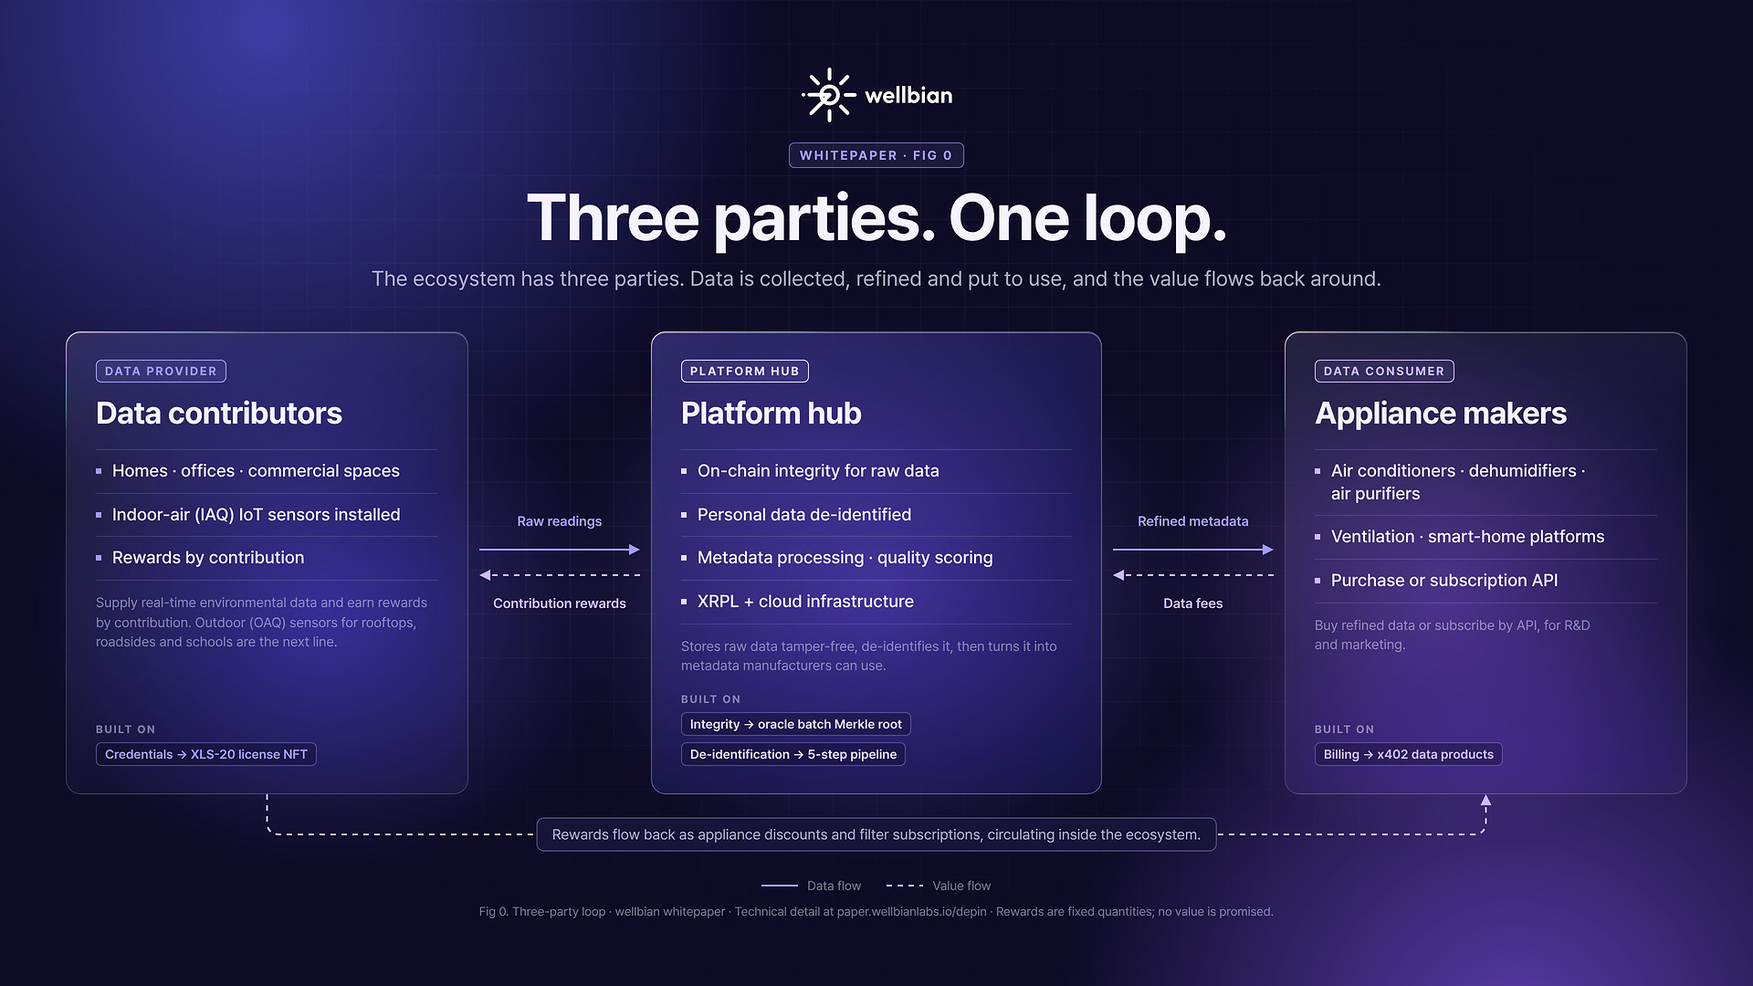
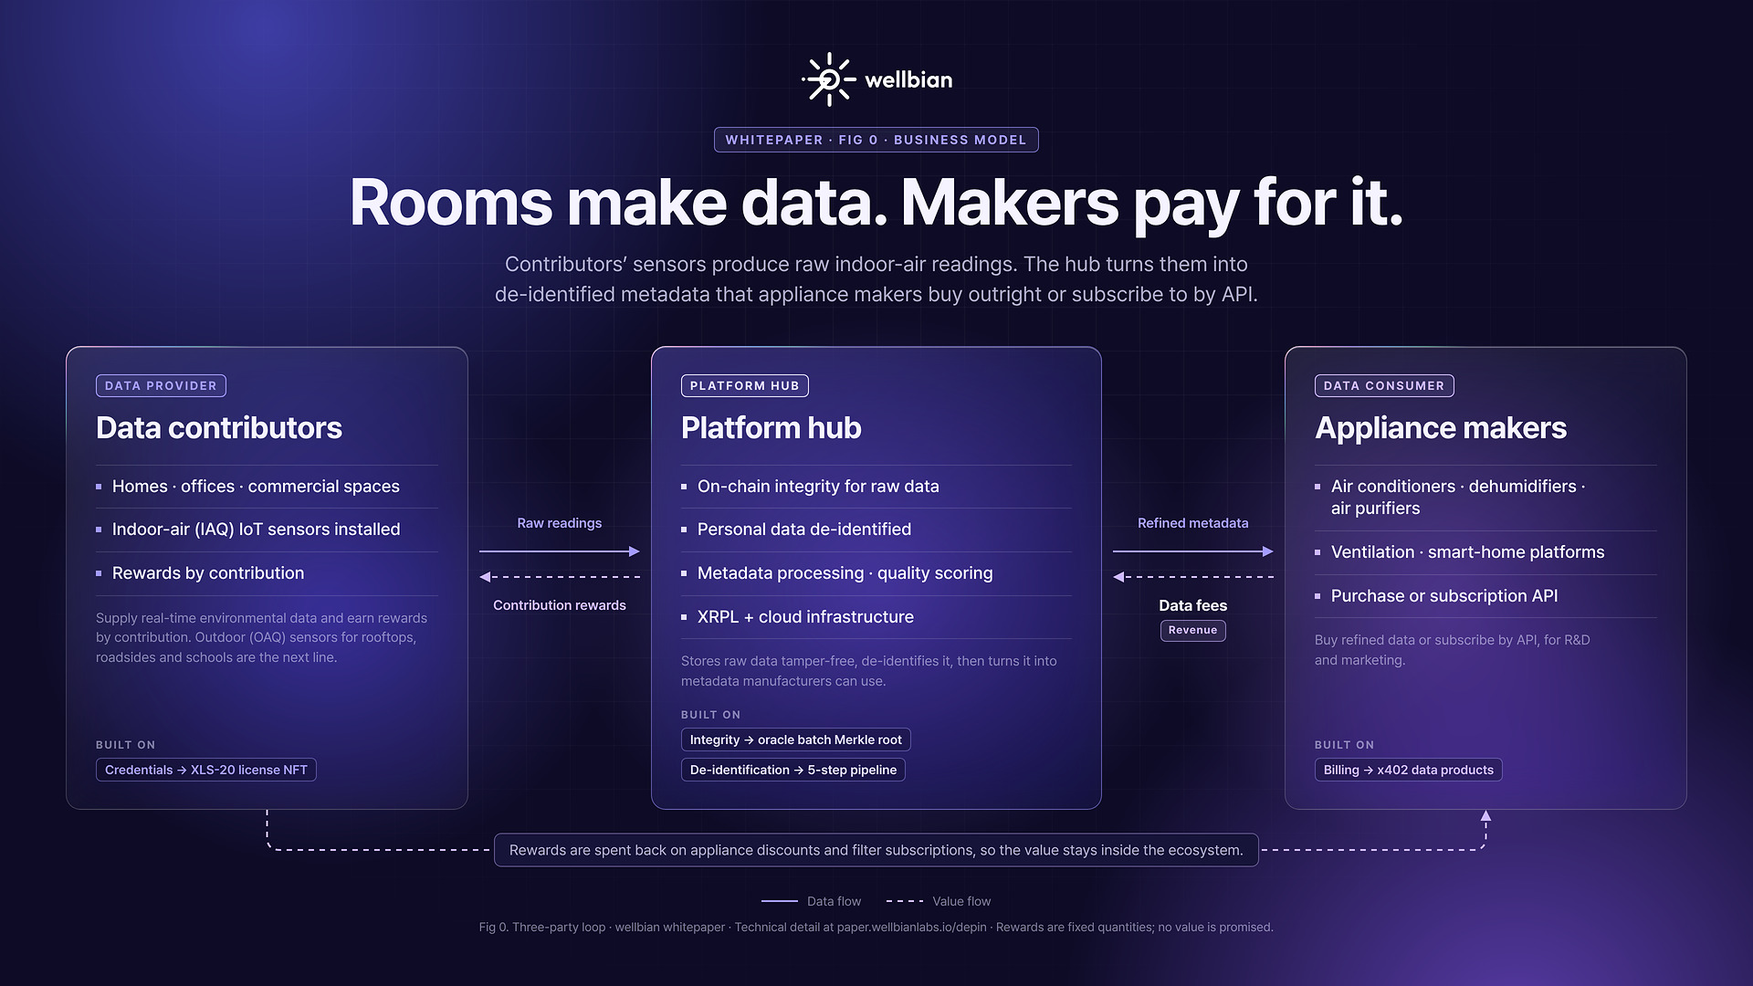
depin: Fig 0 English graphic — revenue-focused headline and data-fee emphasis
Claude-Session: https://claude.ai/code/session_014drgzQYBXTLjd1zzmsjRaS

diff --git a/depin/content/ecosystem-1021/ecosystem-en.html b/depin/content/ecosystem-1021/ecosystem-en.html
@@ -1,4 +1,4 @@
-<!doctype html><html lang="en"><head><meta charset="utf-8"><title>wellbian — Three parties. One loop.</title><style>
+<!doctype html><html lang="en"><head><meta charset="utf-8"><title>wellbian — Rooms make data. Makers pay for it.</title><style>
 @font-face{font-family:"Pretendard";src:url("../../site/event-week/www/fonts/PretendardVariable.woff2") format("woff2");font-weight:100 900}
 :root{--bg:#0D0B26;--t1:#F4F3FF;--t2:rgba(226,224,255,.74);--t3:rgba(226,224,255,.50);--p:#4D4DCE;--p1:#A39BFF;--p2:#CDB8FF;--p3:#E2DCFF;
  --edge:rgba(255,255,255,.16);--hi:rgba(255,255,255,.32)}
@@ -42,6 +42,8 @@ h1{margin-top:16px;font-size:72px;font-weight:700;letter-spacing:-.025em;line-he
 .lane svg{width:180px;height:56px;display:block;overflow:visible}
 .lbl{font-size:15px;font-weight:600;letter-spacing:-.005em;word-break:keep-all;text-align:center;line-height:1.25}
 .lbl.data{color:var(--p1)} .lbl.value{color:var(--p2)}
+.lbl.value.money{color:var(--t1);font-size:17px;font-weight:700;line-height:1.1}
+.rev{margin-top:-2px;font-size:12px;font-weight:700;letter-spacing:.06em;color:var(--p2);border:1px solid rgba(205,184,255,.55);border-radius:6px;padding:3px 8px;background:rgba(205,184,255,.12);text-align:center;line-height:1.3}
 .loop{position:relative;width:100%;height:78px}
 .loop svg{position:absolute;inset:0;width:100%;height:100%;overflow:visible}
 .loop .pill{position:absolute;left:50%;top:44px;transform:translate(-50%,-50%);white-space:nowrap;font-size:16px;color:var(--t2);background:#17143A;border:1px solid rgba(205,184,255,.42);border-radius:8px;padding:8px 16px}
@@ -55,10 +57,10 @@ h1{margin-top:16px;font-size:72px;font-weight:700;letter-spacing:-.025em;line-he
 <div class="bgfx"><div class="g1"></div><div class="g2"></div><div class="g3"></div><div class="g4"></div><div class="g5"></div><div class="grid"></div></div>
 <div class="wrap">
 <div class="logo"><svg width="165" height="60" xmlns="http://www.w3.org/2000/svg" viewBox="0 0 416 151" fill="none" aria-label="wellbian"><g clip-path="url(#wellbian-logo-clip)"><path fill-rule="evenodd" clip-rule="evenodd" fill="#ffffff" d="M323.43 91.39C318.81 98.61 309.1 100.27 302.55 94.93L302.35 97.34L293.95 97.31V50.89L302.39 50.86L302.43 68.68C309.49 63.1 319.73 65.28 324.02 73.24C327.04 78.84 326.98 85.82 323.42 91.39H323.43ZM317.49 81.66C317.45 76.62 313.86 73.3 309.3 73.49C304.89 73.67 301.86 77.27 301.89 81.88C301.92 86.61 305.16 90.16 309.72 90.18C314.2 90.19 317.53 86.63 317.49 81.67V81.66ZM214.88 66.22H223.48L211.97 97.26L205.76 97.36L199.16 79.47L192.59 97.33L186.44 97.26L174.87 66.23L183.45 66.2L189.73 84.68L196.12 66.22L202.22 66.17L208.66 84.67L214.88 66.23V66.22ZM378.53 97.31L370.12 97.33L369.96 94.74C366.45 97.85 362.06 98.74 357.28 97.51C348.11 95.16 344.12 84.22 347.5 75.2C350.07 68.34 356.83 64.51 363.99 65.84C366.33 66.28 368.25 67.38 370.01 68.9L370.1 66.19H378.53V97.3V97.31ZM370.58 81.66C370.51 76.61 366.94 73.29 362.35 73.49C357.76 73.69 354.94 77.25 354.98 81.87C355.02 86.58 358.24 90.19 362.76 90.17C367.28 90.15 370.65 86.65 370.58 81.66ZM240.35 90.79C243.85 91.12 246.74 90.03 249.11 87.65L254.11 92.67C250.44 96.88 245.21 98.34 239.87 97.97C231.83 97.42 225.52 91.57 224.71 83.58C223.68 73.5 231.35 65.21 241.45 65.53C245.96 65.67 249.95 67.39 252.81 70.93C255.93 74.79 256.93 79.96 255.75 84.77H233.22C234.02 87.97 236.61 90.41 240.35 90.77V90.79ZM247.97 78.41C247.21 74.48 244.42 72.61 241 72.68C237.3 72.6 234.04 74.85 233.34 78.44L247.96 78.41H247.97ZM394.4 78.79L394.29 97.32H385.85V66.21L394.27 66.19L394.39 68.92C397.95 65.85 402.64 64.61 407.39 66.37C411.09 67.74 415.04 71.77 415.06 76.51L415.14 97.32H406.62L406.5 78.54C406.48 75.2 403.19 73.33 400.37 73.36C397.55 73.39 394.41 75.28 394.39 78.79H394.4ZM270.25 97.27L261.8 97.32V50.88L270.25 50.87V97.27ZM286.12 97.27L277.67 97.32V50.88L286.12 50.87V97.27ZM340.52 97.31H331.97V66.21L340.52 66.18V97.31ZM335.77 51.61C338.77 51.33 340.79 53.44 341.02 55.95C341.27 58.75 339.43 61.1 336.79 61.33C334.15 61.56 331.85 59.89 331.47 57.22C331.09 54.59 332.72 51.89 335.77 51.61ZM151.91 75.05C152.05 77.51 150.18 80.42 147.12 80.42H121.23C118.37 80.43 116.35 77.81 116.35 75.4C116.35 72.52 118.49 70.19 121.55 70.19L147.02 70.21C149.83 70.21 151.77 72.57 151.91 75.04M78.11 150.79H75.98C75.74 150.79 75.49 150.74 75.27 150.63C73.01 149.53 71.94 147.62 71.95 144.93L71.99 119.92C71.99 116.96 74.43 114.93 77.08 114.94C79.73 114.95 82.11 117.04 82.12 119.98L82.16 144.92C82.16 147.6 81.13 149.52 78.84 150.63C78.62 150.74 78.37 150.79 78.13 150.79H78.11ZM130.2 121.65C132.32 123.79 132.2 127.11 130.14 129.06C128.03 131.06 124.91 130.82 122.76 128.65L105.14 110.83C103.09 108.76 103.12 105.66 105.05 103.63C106.98 101.6 110.19 101.52 112.31 103.65L130.2 121.64V121.65ZM-9.76585e-06 75.58V73.86C-9.76585e-06 73.63 0.0399902 73.4 0.12999 73.19C1.12999 70.97 3.18999 69.5 5.60999 69.83C8.02999 70.16 10.03 72.42 9.91999 74.95C9.80999 77.48 7.83999 79.61 5.23999 79.76C2.94999 79.89 1.06999 78.44 0.11999 76.22C0.0299902 76.02 -0.0100098 75.79 -0.0100098 75.58H-9.76585e-06ZM52.97 90.7C51.07 87.56 49.87 84.48 49.15 81.06C48.99 80.31 48.35 79.76 47.58 79.76H21.31C18.42 79.76 16.29 77.56 16.19 74.97C16.08 72.18 18.28 69.8 21.31 69.8H47.88C48.62 69.79 49.25 69.27 49.43 68.55C53.4 52.66 69.57 43.24 85.29 47.94C94.48 50.69 101.45 58.07 104.12 66.39C107.39 76.58 105.06 86.87 98.34 94.5C89.03 105.08 73.73 107.18 61.91 99.72C61.27 99.31 60.43 99.39 59.9 99.93L30.57 129.52C28.52 131.59 25.62 131.7 23.52 129.94C21.62 128.35 20.8 124.85 22.93 122.7L52.74 92.68C53.26 92.15 53.34 91.34 52.96 90.71L52.97 90.7ZM80.79 78.93L69.87 89.9C69.07 90.71 69.33 92.1 70.39 92.52C76.53 94.96 83.35 93.88 88.39 89.84C94.03 85.32 96.63 77.87 94.7 70.68C92.54 62.67 85.48 57.21 77.46 57.05C70.29 56.91 63.71 61.01 60.61 67.52C60.12 68.56 60.92 69.76 62.07 69.76L77.66 69.82C79.76 69.82 81.46 71.82 81.95 73.25C82.63 75.22 82.33 77.36 80.78 78.93H80.79ZM61.66 79.79C60.53 79.77 59.73 80.9 60.14 81.96C60.56 83.04 61.96 83.33 62.77 82.51C63.75 81.51 63.06 79.82 61.66 79.79ZM78.15 0C78.4 0 78.65 0.05 78.87 0.16C81.11 1.27 82.14 3.2 82.14 5.87L82.1 30.81C82.1 33.75 79.72 35.84 77.06 35.85C74.4 35.86 71.98 33.83 71.97 30.87L71.93 5.86C71.93 3.16 73 1.25 75.37 0.15C75.58 0.05 75.83 0 76.06 0H78.14L78.15 0ZM112.39 46.97C110.21 49.17 107.12 49.03 105.11 47.13C103.36 45.48 102.84 42.1 104.86 40.07L122.89 21.84C124.89 19.82 127.79 19.77 129.78 21.35C131.84 22.97 132.6 26.53 130.51 28.64L112.38 46.97H112.39ZM49.43 40.36C51.26 42.21 50.67 45.34 49.2 46.95C47.55 48.76 44.23 49.43 42.3 47.5L23.59 28.67C21.68 26.75 22.19 23.58 23.76 21.9C25.45 20.09 28.75 19.48 30.74 21.5L49.42 40.37L49.43 40.36Z"></path></g><defs><clipPath id="wellbian-logo-clip"><rect width="415.14" height="150.79" fill="white"></rect></clipPath></defs></svg></div>
-<div class="kicker">Whitepaper · Fig 0</div>
-<h1>Three parties. One loop.</h1><p class="sub">The ecosystem has three parties. Data is collected, refined and put to use, and the value flows back around.</p>
-<div class="row"><section class="tile glass glint provider"><div class="eyebrow">Data Provider</div><h2>Data contributors</h2><ul class="items"><li><span class="nw">Homes ·</span> <span class="nw">offices ·</span> <span class="nw">commercial spaces</span></li><li>Indoor-air (IAQ) IoT sensors installed</li><li>Rewards by contribution</li></ul><p class="n">Supply real-time environmental data and earn rewards by contribution. Outdoor (OAQ) sensors for rooftops, roadsides and schools are the next line.</p><div class="tech"><span class="tl">Built on</span><span class="tag">Credentials → XLS-20 license NFT</span></div></section><div class="lane"><span class="lbl data">Raw readings</span><svg viewBox="0 0 180 56"><line x1="2" y1="14" x2="168" y2="14" stroke="#A39BFF" stroke-width="2"/><polygon points="178,14 166,8 166,20" fill="#A39BFF"/><line x1="178" y1="42" x2="12" y2="42" stroke="#CDB8FF" stroke-width="2" stroke-dasharray="6 6"/><polygon points="2,42 14,36 14,48" fill="#CDB8FF"/></svg><span class="lbl value">Contribution rewards</span></div><section class="tile glass glint hub"><div class="eyebrow">Platform Hub</div><h2>Platform hub</h2><ul class="items"><li>On-chain integrity for raw data</li><li>Personal data de-identified</li><li><span class="nw">Metadata processing ·</span> <span class="nw">quality scoring</span></li><li>XRPL + cloud infrastructure</li></ul><p class="n">Stores raw data tamper-free, de-identifies it, then turns it into metadata manufacturers can use.</p><div class="tech"><span class="tl">Built on</span><span class="tag">Integrity → oracle batch Merkle root</span><span class="tag">De-identification → 5-step pipeline</span></div></section><div class="lane"><span class="lbl data">Refined metadata</span><svg viewBox="0 0 180 56"><line x1="2" y1="14" x2="168" y2="14" stroke="#A39BFF" stroke-width="2"/><polygon points="178,14 166,8 166,20" fill="#A39BFF"/><line x1="178" y1="42" x2="12" y2="42" stroke="#CDB8FF" stroke-width="2" stroke-dasharray="6 6"/><polygon points="2,42 14,36 14,48" fill="#CDB8FF"/></svg><span class="lbl value">Data fees</span></div><section class="tile glass glint consumer"><div class="eyebrow">Data Consumer</div><h2>Appliance makers</h2><ul class="items"><li><span class="nw">Air conditioners ·</span> <span class="nw">dehumidifiers ·</span> <span class="nw">air purifiers</span></li><li><span class="nw">Ventilation ·</span> <span class="nw">smart-home platforms</span></li><li>Purchase or subscription API</li></ul><p class="n">Buy refined data or subscribe by API, for R&D and marketing.</p><div class="tech"><span class="tl">Built on</span><span class="tag">Billing → x402 data products</span></div></section></div>
-<div class="loop"><svg viewBox="0 0 1776 78" preserveAspectRatio="none"><path d="M220.5,0 V30 Q220.5,44 234.5,44 H1541.5 Q1555.5,44 1555.5,30 V10" fill="none" stroke="#CDB8FF" stroke-width="2" stroke-dasharray="6 6"/><polygon points="1555.5,0 1549.5,12 1561.5,12" fill="#CDB8FF"/></svg><div class="pill">Rewards flow back as appliance discounts and filter subscriptions, circulating inside the ecosystem.</div></div>
+<div class="kicker">Whitepaper · Fig 0 · Business model</div>
+<h1>Rooms make data. Makers pay for it.</h1><p class="sub">Contributors’ sensors produce raw indoor-air readings. The hub turns them into de‑identified metadata that appliance makers buy outright or subscribe to by API.</p>
+<div class="row"><section class="tile glass glint provider"><div class="eyebrow">Data Provider</div><h2>Data contributors</h2><ul class="items"><li><span class="nw">Homes ·</span> <span class="nw">offices ·</span> <span class="nw">commercial spaces</span></li><li>Indoor-air (IAQ) IoT sensors installed</li><li>Rewards by contribution</li></ul><p class="n">Supply real-time environmental data and earn rewards by contribution. Outdoor (OAQ) sensors for rooftops, roadsides and schools are the next line.</p><div class="tech"><span class="tl">Built on</span><span class="tag">Credentials → XLS-20 license NFT</span></div></section><div class="lane"><span class="lbl data">Raw readings</span><svg viewBox="0 0 180 56"><line x1="2" y1="14" x2="168" y2="14" stroke="#A39BFF" stroke-width="2"/><polygon points="178,14 166,8 166,20" fill="#A39BFF"/><line x1="178" y1="42" x2="12" y2="42" stroke="#CDB8FF" stroke-width="2" stroke-dasharray="6 6"/><polygon points="2,42 14,36 14,48" fill="#CDB8FF"/></svg><span class="lbl value">Contribution rewards</span><span class="rev" style="visibility:hidden">·</span></div><section class="tile glass glint hub"><div class="eyebrow">Platform Hub</div><h2>Platform hub</h2><ul class="items"><li>On-chain integrity for raw data</li><li>Personal data de-identified</li><li><span class="nw">Metadata processing ·</span> <span class="nw">quality scoring</span></li><li>XRPL + cloud infrastructure</li></ul><p class="n">Stores raw data tamper-free, de-identifies it, then turns it into metadata manufacturers can use.</p><div class="tech"><span class="tl">Built on</span><span class="tag">Integrity → oracle batch Merkle root</span><span class="tag">De-identification → 5-step pipeline</span></div></section><div class="lane"><span class="lbl data">Refined metadata</span><svg viewBox="0 0 180 56"><line x1="2" y1="14" x2="168" y2="14" stroke="#A39BFF" stroke-width="2"/><polygon points="178,14 166,8 166,20" fill="#A39BFF"/><line x1="178" y1="42" x2="12" y2="42" stroke="#CDB8FF" stroke-width="2" stroke-dasharray="6 6"/><polygon points="2,42 14,36 14,48" fill="#CDB8FF"/></svg><span class="lbl value money">Data fees</span><span class="rev">Revenue</span></div><section class="tile glass glint consumer"><div class="eyebrow">Data Consumer</div><h2>Appliance makers</h2><ul class="items"><li><span class="nw">Air conditioners ·</span> <span class="nw">dehumidifiers ·</span> <span class="nw">air purifiers</span></li><li><span class="nw">Ventilation ·</span> <span class="nw">smart-home platforms</span></li><li>Purchase or subscription API</li></ul><p class="n">Buy refined data or subscribe by API, for R&D and marketing.</p><div class="tech"><span class="tl">Built on</span><span class="tag">Billing → x402 data products</span></div></section></div>
+<div class="loop"><svg viewBox="0 0 1776 78" preserveAspectRatio="none"><path d="M220.5,0 V30 Q220.5,44 234.5,44 H1541.5 Q1555.5,44 1555.5,30 V10" fill="none" stroke="#CDB8FF" stroke-width="2" stroke-dasharray="6 6"/><polygon points="1555.5,0 1549.5,12 1561.5,12" fill="#CDB8FF"/></svg><div class="pill">Rewards are spent back on appliance discounts and filter subscriptions, so the value stays inside the ecosystem.</div></div>
 <div class="legend"><span><svg viewBox="0 0 40 4"><line x1="0" y1="2" x2="40" y2="2" stroke="#A39BFF" stroke-width="2"/></svg>Data flow</span><span><svg viewBox="0 0 40 4"><line x1="0" y1="2" x2="40" y2="2" stroke="#CDB8FF" stroke-width="2" stroke-dasharray="6 6"/></svg>Value flow</span></div>
 <p class="foot">Fig 0. Three-party loop · wellbian whitepaper · Technical detail at paper.wellbianlabs.io/depin · Rewards are fixed quantities; no value is promised.</p>
 </div></body></html>

diff --git a/depin/content/ecosystem-1021/build.py b/depin/content/ecosystem-1021/build.py
@@ -11,8 +11,8 @@ LOGO = LOGO.replace('width="416" height="151"', 'width="165" height="60"', 1)
 
 T = {
  "ko": dict(
-  lang="ko", kicker="백서 · Fig 0", h1="3주체 선순환 구조",
-  sub="본 생태계는 세 주체로 구성되며, 데이터의 수집 – 정제 – 활용이 선순환을 이룹니다.",
+  lang="ko", kicker="백서 · Fig 0 · 사업 모델", h1="방은 데이터를 만들고, 제조사는 값을 냅니다.",
+  sub="기여자의 측정기가 실내 공기 원시 측정값을 만들고, 허브가 이를 비식별 메타데이터로 가공해 가전 제조사에 판매하거나 구독형 API로 제공합니다.",
   tiles=[
    ("provider", "Data Provider", "데이터 기여자",
     ["가정 · 사무실 · 상업시설", "IAQ 측정 IoT 디바이스 설치", "기여도 기반 리워드 획득"],
@@ -27,15 +27,15 @@ T = {
     "정제된 데이터를 구매하거나 구독형 API로 받아 R&D · 마케팅에 활용합니다.",
     ["과금 → x402 데이터 상품"]),
   ],
-  lanes=[("원시 측정값", "기여 보상"), ("정제 메타데이터", "데이터 이용료")],
+  lanes=[("원시 측정값", "기여 보상", ""), ("정제 메타데이터", "데이터 이용료", "매출")],
   tech="기술 대응",
-  loop="보상은 가전 구매 할인 · 필터 구독 결제로 재유입되어 생태계 안에서 순환합니다.",
+  loop="보상은 가전 구매 할인 · 필터 구독 결제로 다시 쓰여, 가치가 생태계 안에 머뭅니다.",
   legend=("데이터 흐름", "가치 흐름"),
   foot="Fig 0. 3주체 선순환 구조 · wellbian 백서 · 기술 대응 상세 paper.wellbianlabs.io/depin · 보상은 정해진 개수이며 가치는 약속하지 않습니다.",
  ),
  "en": dict(
-  lang="en", kicker="Whitepaper · Fig 0", h1="Three parties. One loop.",
-  sub="The ecosystem has three parties. Data is collected, refined and put to use, and the value flows back around.",
+  lang="en", kicker="Whitepaper · Fig 0 · Business model", h1="Rooms make data. Makers pay for it.",
+  sub="Contributors’ sensors produce raw indoor-air readings. The hub turns them into de‑identified metadata that appliance makers buy outright or subscribe to by API.",
   tiles=[
    ("provider", "Data Provider", "Data contributors",
     ["Homes · offices · commercial spaces", "Indoor-air (IAQ) IoT sensors installed", "Rewards by contribution"],
@@ -50,9 +50,9 @@ T = {
     "Buy refined data or subscribe by API, for R&D and marketing.",
     ["Billing → x402 data products"]),
   ],
-  lanes=[("Raw readings", "Contribution rewards"), ("Refined metadata", "Data fees")],
+  lanes=[("Raw readings", "Contribution rewards", ""), ("Refined metadata", "Data fees", "Revenue")],
   tech="Built on",
-  loop="Rewards flow back as appliance discounts and filter subscriptions, circulating inside the ecosystem.",
+  loop="Rewards are spent back on appliance discounts and filter subscriptions, so the value stays inside the ecosystem.",
   legend=("Data flow", "Value flow"),
   foot="Fig 0. Three-party loop · wellbian whitepaper · Technical detail at paper.wellbianlabs.io/depin · Rewards are fixed quantities; no value is promised.",
  ),
@@ -102,6 +102,8 @@ h1{margin-top:16px;font-size:72px;font-weight:700;letter-spacing:-.025em;line-he
 .lane svg{width:180px;height:56px;display:block;overflow:visible}
 .lbl{font-size:15px;font-weight:600;letter-spacing:-.005em;word-break:keep-all;text-align:center;line-height:1.25}
 .lbl.data{color:var(--p1)} .lbl.value{color:var(--p2)}
+.lbl.value.money{color:var(--t1);font-size:17px;font-weight:700;line-height:1.1}
+.rev{margin-top:-2px;font-size:12px;font-weight:700;letter-spacing:.06em;color:var(--p2);border:1px solid rgba(205,184,255,.55);border-radius:6px;padding:3px 8px;background:rgba(205,184,255,.12);text-align:center;line-height:1.3}
 .loop{position:relative;width:100%;height:78px}
 .loop svg{position:absolute;inset:0;width:100%;height:100%;overflow:visible}
 .loop .pill{position:absolute;left:50%;top:44px;transform:translate(-50%,-50%);white-space:nowrap;font-size:16px;color:var(--t2);background:#17143A;border:1px solid rgba(205,184,255,.42);border-radius:8px;padding:8px 16px}
@@ -141,8 +143,10 @@ def page(lang):
         cells.append(f'<section class="tile glass glint {cls}"><div class="eyebrow">{eyebrow}</div><h2>{title}</h2>'
                      f'<ul class="items">{lis}</ul><p class="n">{note}</p><div class="tech"><span class="tl">{t["tech"]}</span>{tags}</div></section>')
         if i < 2:
-            top, bottom = t["lanes"][i]
-            cells.append(f'<div class="lane"><span class="lbl data">{top}</span><svg viewBox="0 0 180 56">{ARROW_DATA}{ARROW_VALUE}</svg><span class="lbl value">{bottom}</span></div>')
+            top, bottom, rev = t["lanes"][i]
+            money = f'<span class="rev">{rev}</span>' if rev else '<span class="rev" style="visibility:hidden">·</span>'   # 두 레인 높이를 맞춰 화살표 높이 정렬
+            cells.append(f'<div class="lane"><span class="lbl data">{top}</span><svg viewBox="0 0 180 56">{ARROW_DATA}{ARROW_VALUE}</svg>'
+                         f'<span class="lbl value{" money" if rev else ""}">{bottom}</span>{money}</div>')
     solid, dashed = t["legend"]
     legend = (f'<div class="legend"><span><svg viewBox="0 0 40 4"><line x1="0" y1="2" x2="40" y2="2" stroke="#A39BFF" stroke-width="2"/></svg>{solid}</span>'
               f'<span><svg viewBox="0 0 40 4"><line x1="0" y1="2" x2="40" y2="2" stroke="#CDB8FF" stroke-width="2" stroke-dasharray="6 6"/></svg>{dashed}</span></div>')

diff --git a/depin/reports/work-log.md b/depin/reports/work-log.md
@@ -2476,3 +2476,4 @@ Thanks Odelia — writing to you at that address today. Mine is support@wellbian
 - **구조 그래픽 — 메인 카피 수익 구조로 · 반짝임 교체 · 로고 1.5배(10/21, 서우 「빛 반사 줄이고 좌측 모서리 · 힉스필드 도움 · 원 레저 투 루프는 구조 설명이니 왜 돈이 되는지로」)** — 「Every room is data. Every call is revenue. / 방마다 데이터. 호출마다 매출.」 + 부제(방이 늘수록 팔 수 있는 검증 데이터 · 호출마다 RLUSD 결제 · XRP 원장 정산). 반짝임 = Higgsfield 생성 유리 모서리 글린트를 잘라 투명 처리(`architecture-1021/assets/glint-corner.png`) · 좌상단 모서리 호에 · 무지갯빛 테두리는 모서리 근처만 옅게.
 - **백서 Fig 0 — 3주체 선순환 구조 그래픽(10/21, 서우 「아래 내용도 동일한 톤앤매너로」)** — `content/ecosystem-1021/`: 데이터 기여자 · 플랫폼 허브 · 가전 제조사 + 데이터(실선) · 가치(점선) 흐름 + 재유입 순환선 + 기술 대응 칩 4. 국 · 영 1920×1080. 실외(OAQ) = 다음 라인 표기 · 「보상 → 가전 할인 · 필터 구독 재유입」 현재/계획 여부 서우 확인 필요.
 - **구조 그래픽 · 백서 Fig 0 — 반짝임 제거, 무지갯빛을 테두리 선에 맞춤 · 영문판만(10/21, 서우 「빛나는 효과 없애고 · 빛깔이 번져 보이니 테두리에 맞춰 · 영문판들만 제작」)** — 글린트 이미지 뺌 · 좌상단 1px 테두리 선 위에만 무지갯빛. `architecture-en` · `ecosystem-en` 다시 뽑음(국문은 이전 판 유지).
+- **백서 Fig 0 영문 — 수익화 초점(10/21, 서우 「이것도 수익화에 초점」)** — 「Rooms make data. Makers pay for it.」 · 칩 Business model · 부제(원시 측정값 → 비식별 메타데이터 → 제조사 구매 · API 구독) · Data fees 레인 「Revenue」 칩 강조 · 순환선 문구 정리. 국문 문구는 소스만 맞춤(렌더 안 함).

diff --git a/depin/content/ecosystem-1021/README.md b/depin/content/ecosystem-1021/README.md
@@ -8,6 +8,8 @@
 
 - **10/21 3차(서우 「빛나는 효과 없애고 · 테두리에 맞춰 · 영문판들만」)**: 모서리 반짝임 이미지 뺌 · 무지갯빛은 좌상단 테두리 선 1px 위에만. 영문만 다시 뽑음(`python3 build.py en`) — 국문은 반짝임 판 그대로.
 
+- **10/21 4차 — 수익화 초점(서우 「이것도 수익화에 초점」)**: 칩 「Whitepaper · Fig 0 · Business model」 · 제목 「Rooms make data. Makers pay for it.」 · 부제 「기여자 측정기 → 원시 측정값 → 허브가 비식별 메타데이터로 → 가전 제조사가 구매 또는 API 구독」 · 「Data fees」 레인을 굵은 흰 글자 + 「Revenue」 칩으로 강조 · 순환선 문구 「Rewards are spent back on appliance discounts and filter subscriptions, so the value stays inside the ecosystem.」 사업 모델 설명이지 계약 · 고객 주장이 아님(칩에 Business model). 영문만 다시 뽑음 — 국문 문구는 build.py 에 맞춰 두었고(「방은 데이터를 만들고, 제조사는 값을 냅니다.」) 렌더는 `python3 build.py ko`.
+
 ## 구성
 
 | 자리 | 내용 |
